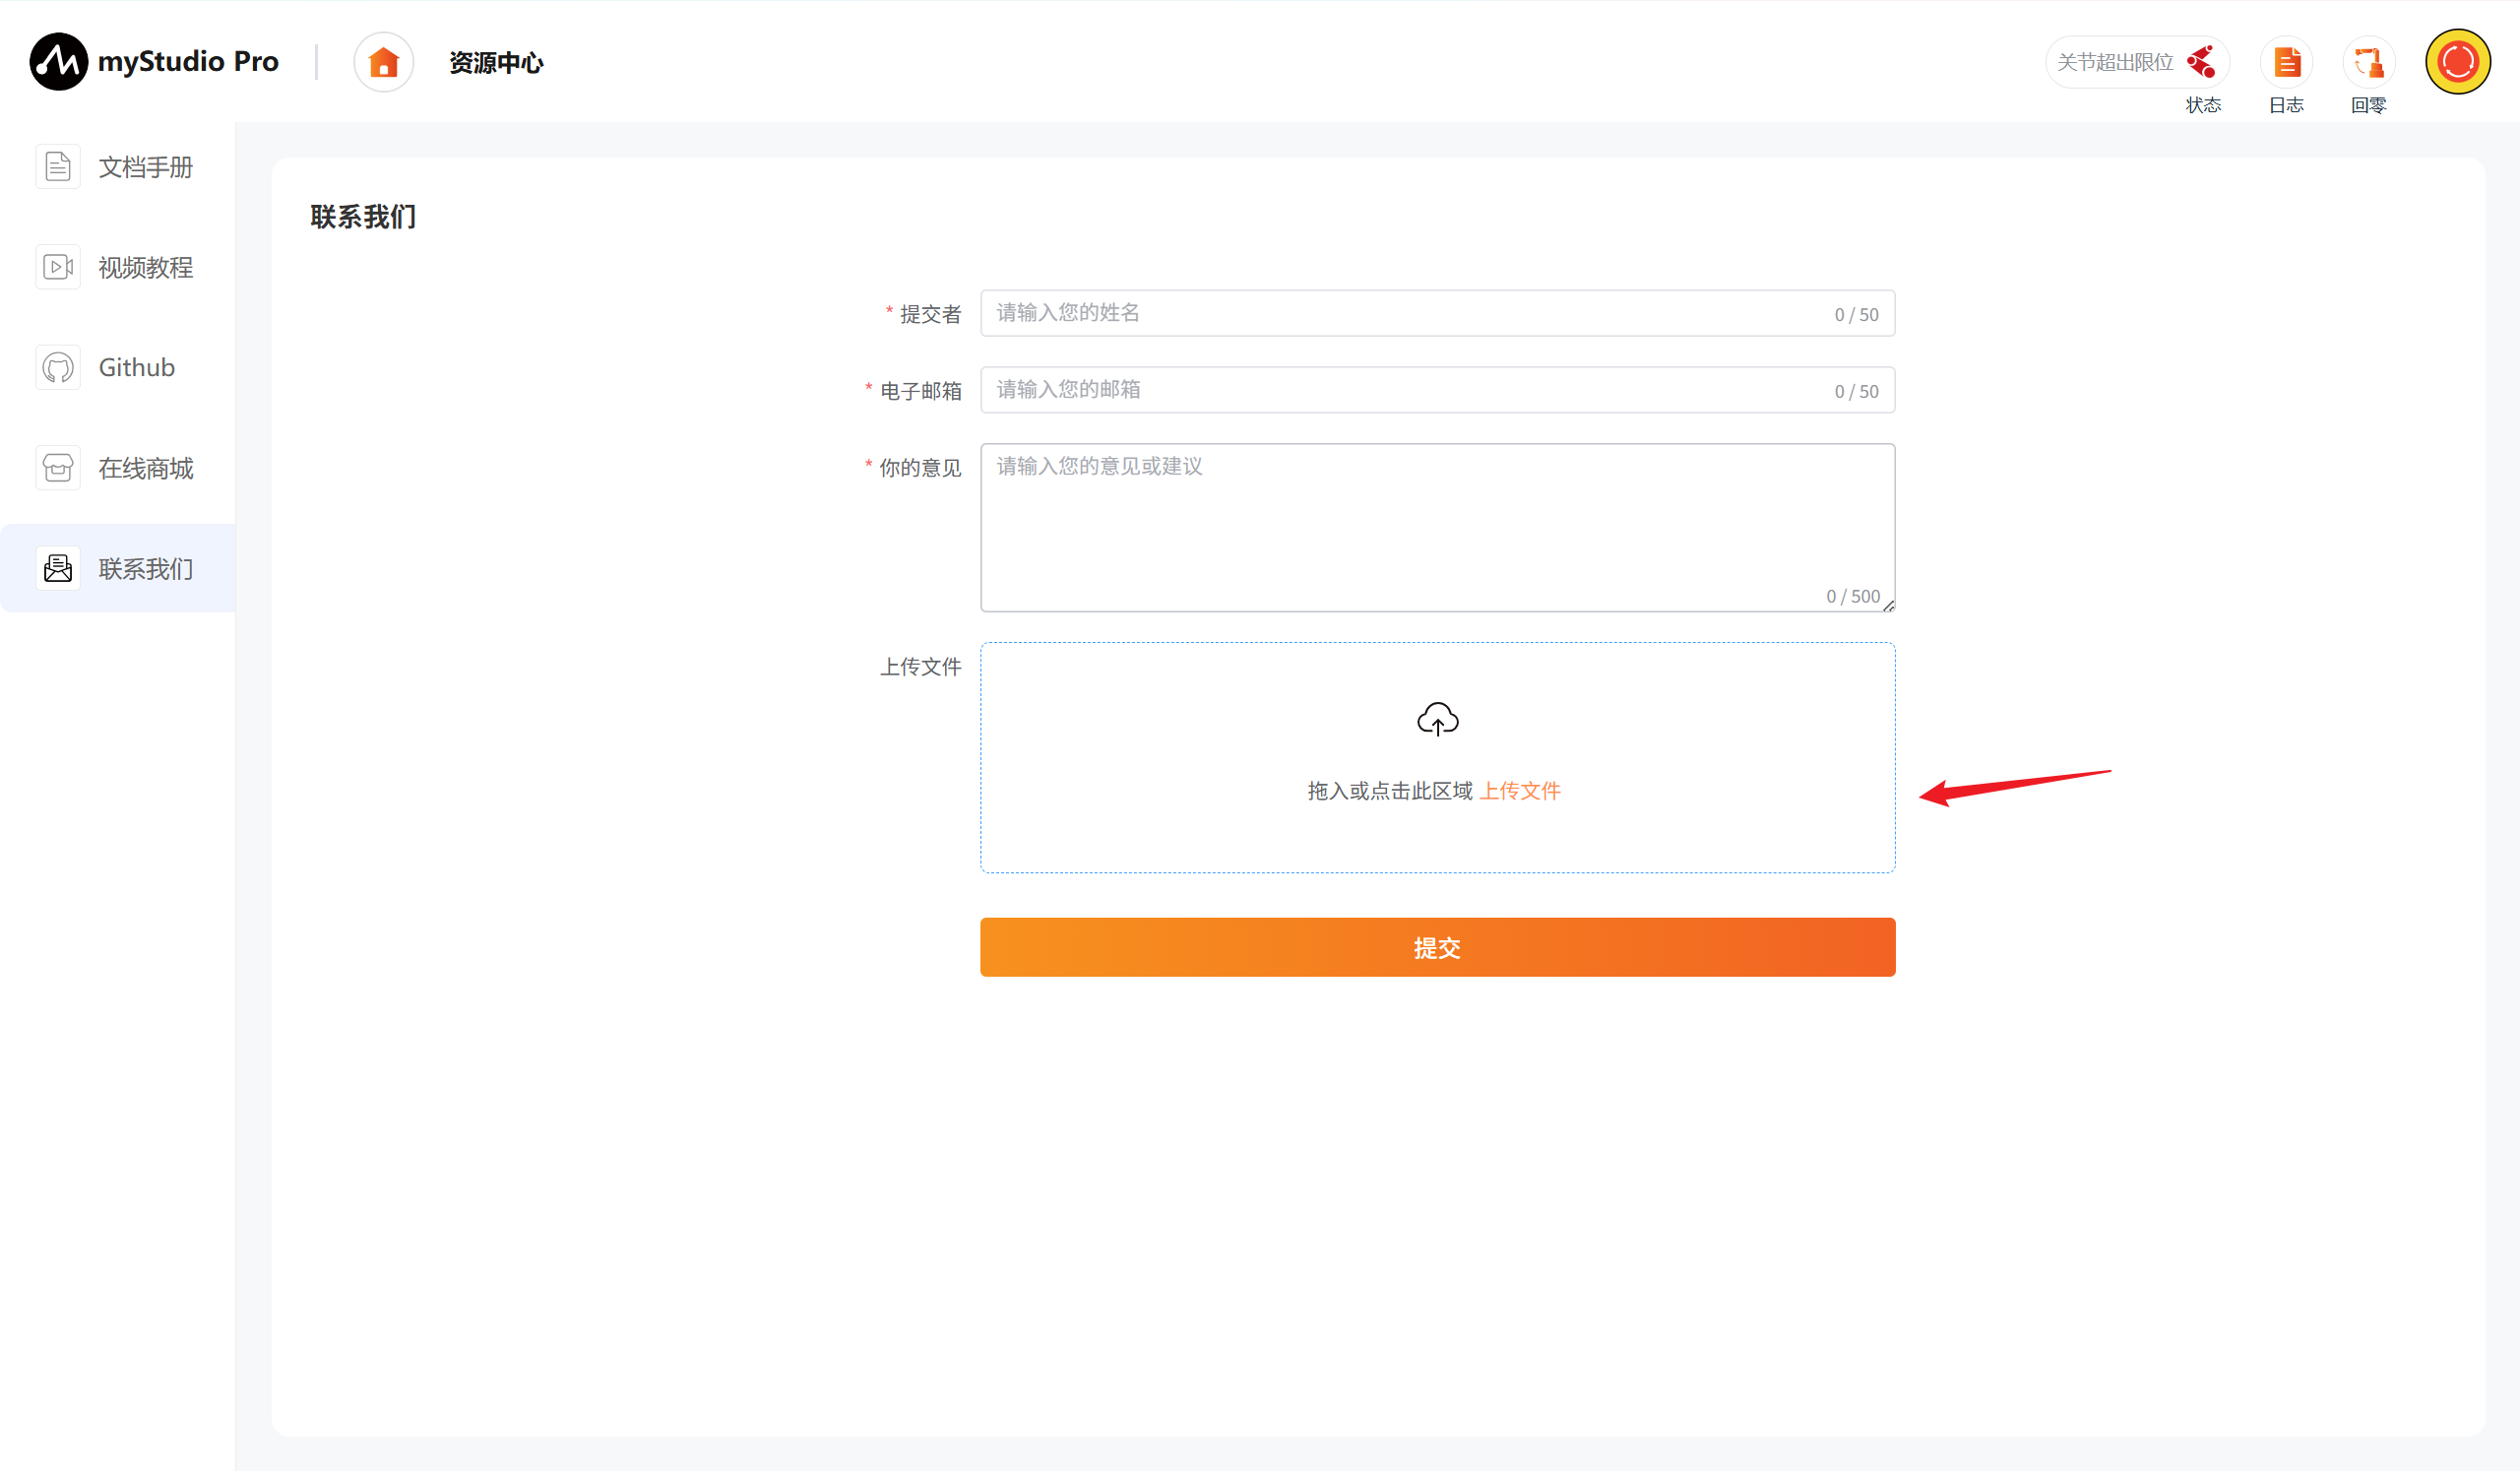
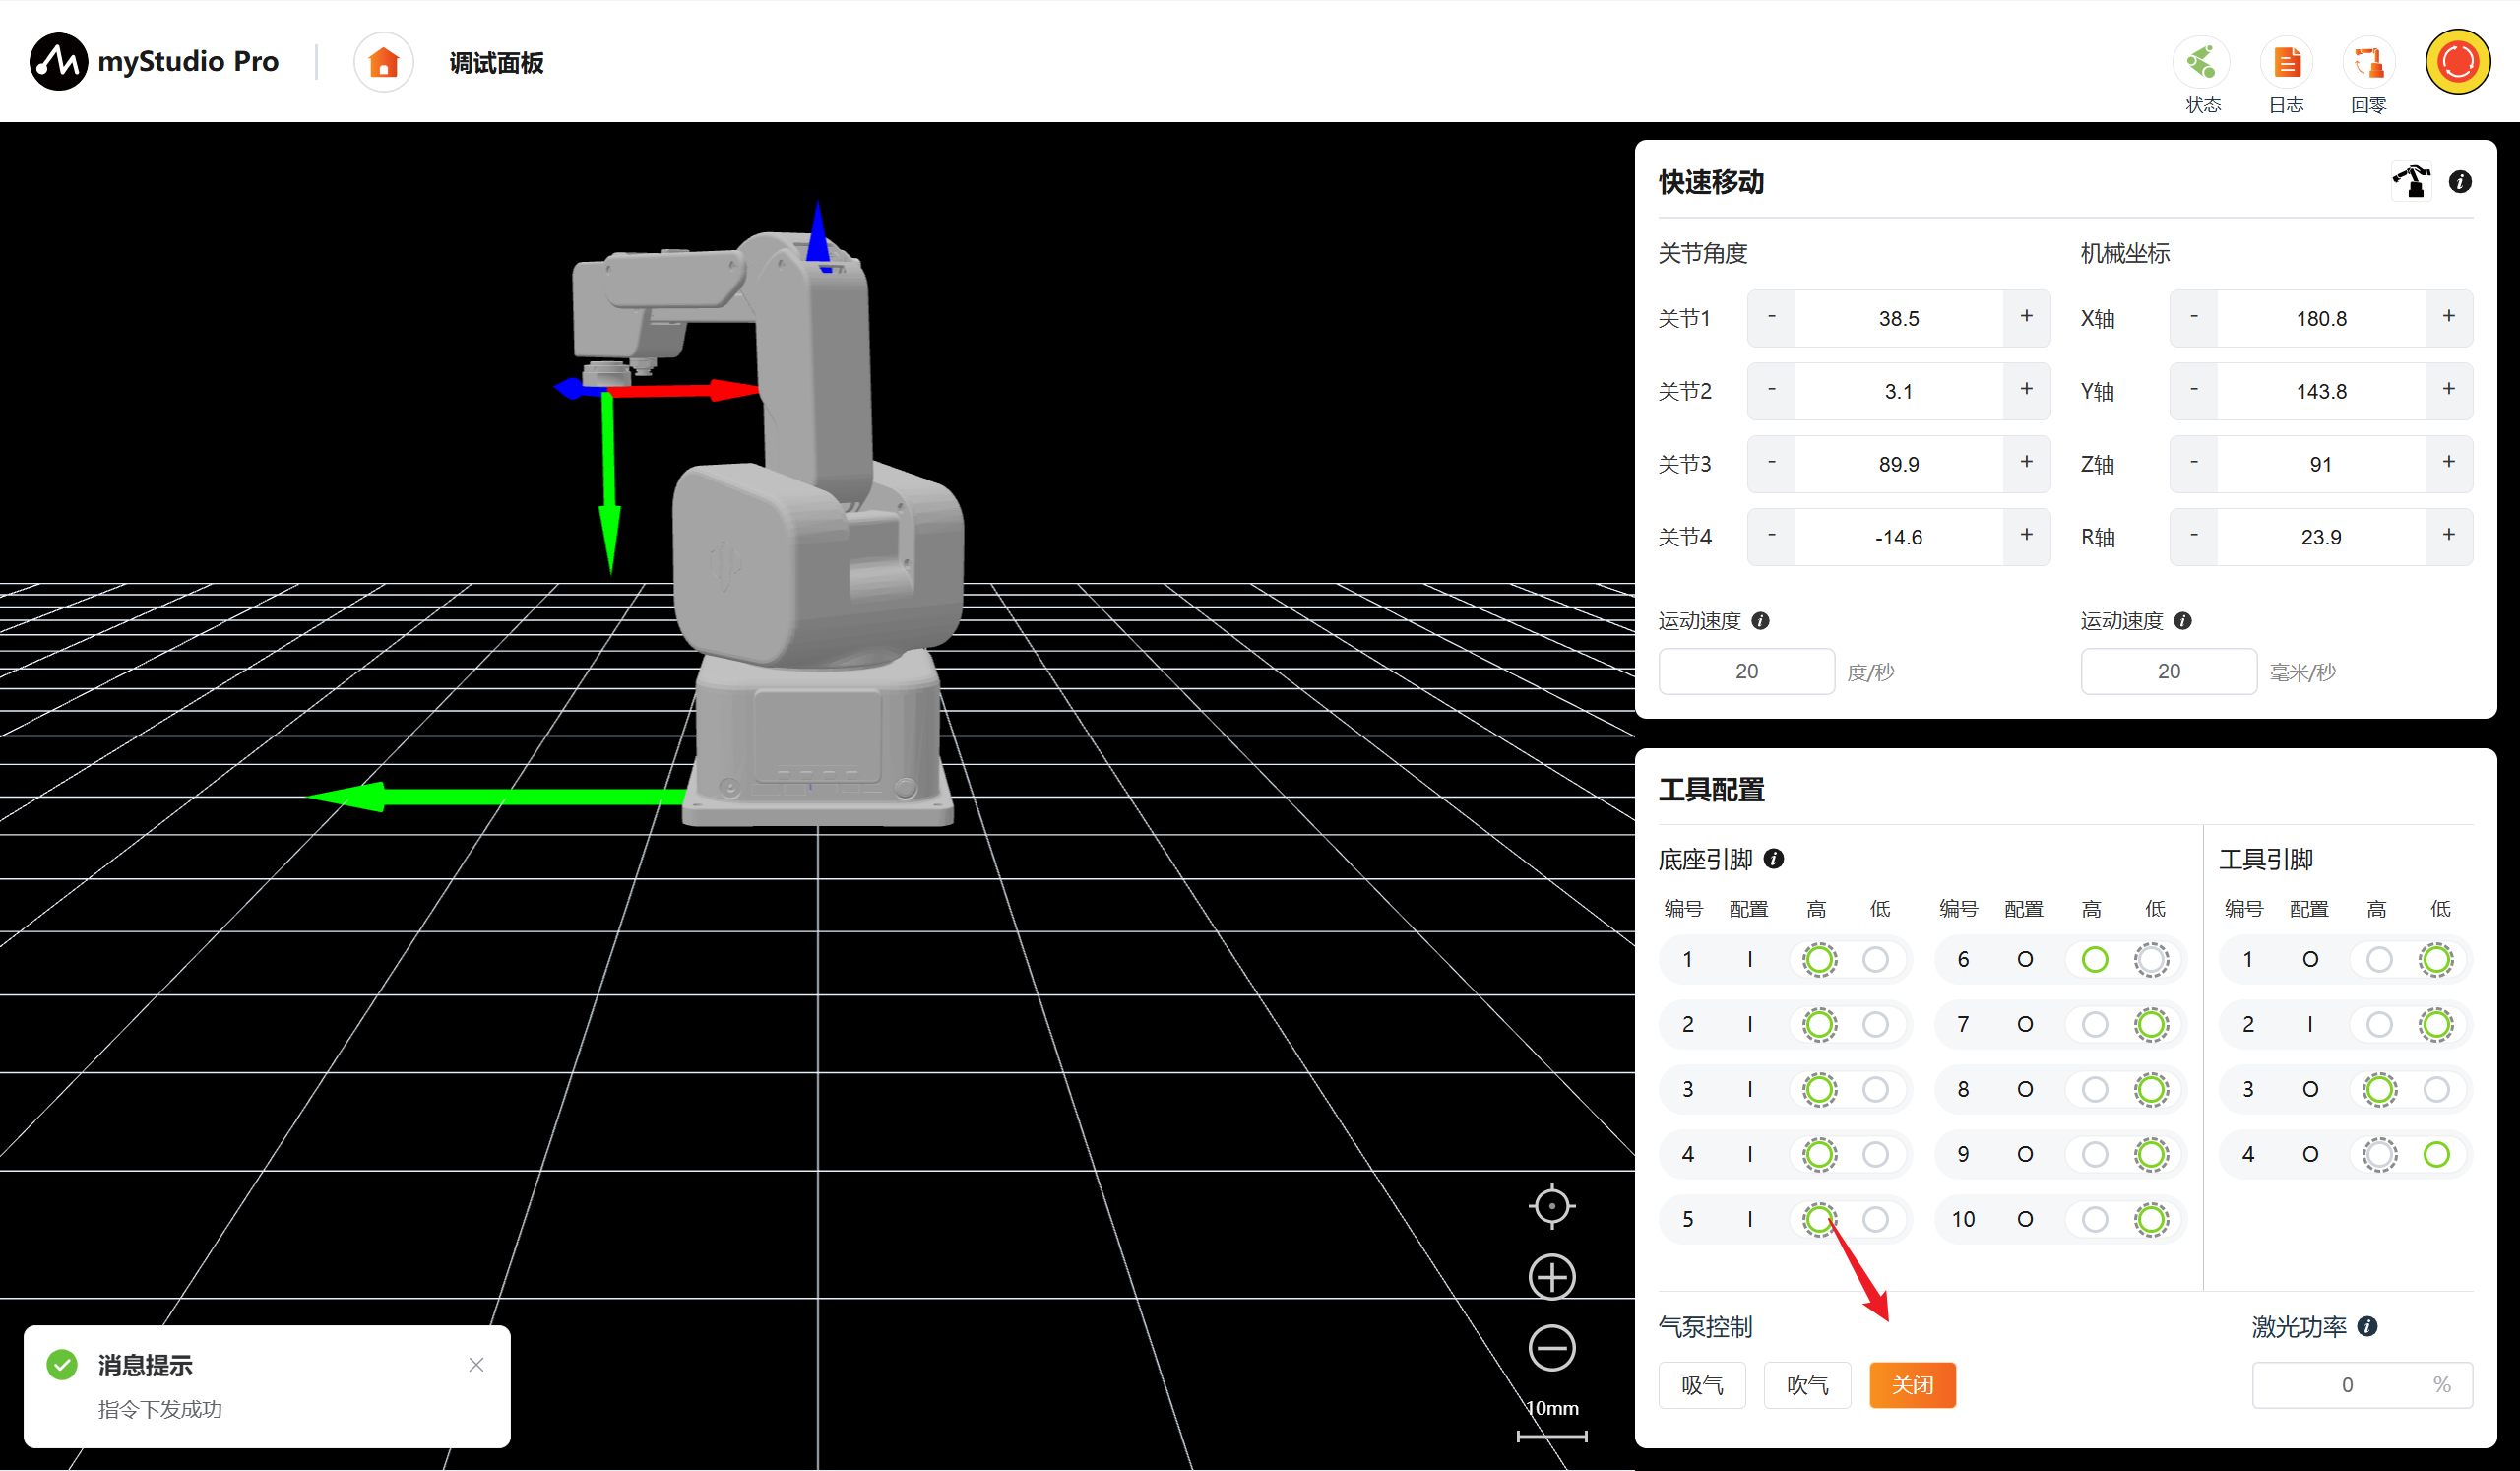
docs(mystudio): Completed the writing of the debugging panel content.

diff --git a/ultraArmP1_en/C-FunctionsAndApplications/5-BasicApplication/5.3-myStudioPro/5.3.4-debugPlane.md b/ultraArmP1_en/C-FunctionsAndApplications/5-BasicApplication/5.3-myStudioPro/5.3.4-debugPlane.md
@@ -23,19 +23,100 @@
 | 9    | Air pump control, can perform suction, blowing and closing operations of the air pump |
 | 10   | Laser power control, by inputting numbers in the text box to regulate the laser power | 
 
-## 2 Angle Control
-In the angle control area, by clicking the `+` `-` buttons, you can control the joint angles of the robotic arm. The numbers represent the current joint angle information of the robotic arm. You can also directly modify the numbers to control the joints. Input a position within the limit range, and then click `Enter` to perform the control. 
+## 2 Free Movement
 
-## 3 Coordinate Control
-Before using coordinate control, it is necessary to move Joint 3 to an angle position of approximately 90 degrees. 
+The free movement switch can enable/disable the free movement mode of the robotic arm.
 
-## 4 Continuous Movement 
-By long-pressing the `+` `-` buttons in the corresponding area, you can control the robot to move continuously at the specified angle/coordinates. 
+<img width = "1200" align = "center" src="../../../resources/C-FunctionsAndApplications/5-BasicApplication/5.3-myStudioPro/debug-13.png" />
 
-## 5 IO Control 
+When the automatic mode is activated, clicking the switch will display a confirmation pop-up window. After clicking the confirm button, the free movement mode can be enabled.
 
-## 6 Pump Suction Control 
+<img width = "1200" align = "center" src="../../../resources/C-FunctionsAndApplications/5-BasicApplication/5.3-myStudioPro/debug-14.png" />
 
-## 7 Laser Power Control
+<img width = "1200" align = "center" src="../../../resources/C-FunctionsAndApplications/5-BasicApplication/5.3-myStudioPro/debug-15.png" />
+
+## 3 Angle Control
+In the angle control area, by clicking the `+` `-` buttons, you can control the joint angles of the robotic arm. The numbers represent the current joint angle information of the robotic arm. You can also directly modify the numbers to control the joints. Input a position within the limit range, and then click `Enter` to perform the control.
+
+**Note:**
+> Input angle: Move to the target angle by following the set joint movement steps. 
+> 
+> When long-pressing "/" or "-": Move at this speed. >
+> 
+> When the "plus" or "minus" sign is present: Move at the minimum speed by 0.1 degree.
+
+<img width = "1200" align = "center" src="../../../resources/C-FunctionsAndApplications/5-BasicApplication/5.3-myStudioPro/debug-2.png" />
+
+## 4 Coordinate Control
+
+Before using the coordinate control, it is recommended to return the robotic arm to its zero position before proceeding with the operation.
+
+<img width = "1200" align = "center" src="../../../resources/C-FunctionsAndApplications/5-BasicApplication/5.3-myStudioPro/debug-3.png" />
+
+## 5 Continuous Movement 
+By long-pressing the '+' and '-' buttons in the corresponding area, you can control the robot to move continuously at the specified angle/coordinates. The movement will stop once you release the mouse.
+
+<img width = "1200" align = "center" src="../../../resources/C-FunctionsAndApplications/5-BasicApplication/5.3-myStudioPro/debug-4.png" />
+
+
+> Note: When the long press operation reaches the joint limit position, it will automatically stop.
+
+## 6 Movement Step
+
+The angle/coordinate can be continuously moved or the movement mode can be controlled by pressing 'Enter', and the movement step size can also be set.
+
+<img width = "1200" align = "center" src="../../../resources/C-FunctionsAndApplications/5-BasicApplication/5.3-myStudioPro/debug-16.png" />
+
+<img width = "1200" align = "center" src="../../../resources/C-FunctionsAndApplications/5-BasicApplication/5.3-myStudioPro/debug-17.png" />
+
+## 7 IO Control 
+
+In this function module, the pin number, configuration and level status can be observed intuitively. Among them, the highlighted item in the level status section represents the actual status of the current pin. The dotted outer border represents the default level status set in the [Pin Configuration](./5.3.7-setting.md#3-pin-configuration)
+
+> I: The current pin is an input pin and cannot switch the high/low level
+> 
+> O: The current pin is an output pin and can switch the high/low level
+> 
+> The dotted outer border: The current level is the default level configured in the IO configuration page
+
+### 7.1 Base pins
+
+<img width = "1200" align = "center" src="../../../resources/C-FunctionsAndApplications/5-BasicApplication/5.3-myStudioPro/debug-5.png" />
+
+> The level state of pin 6 of the base is changed from a low level to a high level.
+
+<img width = "1200" align = "center" src="../../../resources/C-FunctionsAndApplications/5-BasicApplication/5.3-myStudioPro/debug-6.png" />
+
+### 7.2 Tool pins
+
+<img width = "1200" align = "center" src="../../../resources/C-FunctionsAndApplications/5-BasicApplication/5.3-myStudioPro/debug-7.png" />
+
+> The level state of tool pin 3 has been changed from low level to high level.
+
+<img width = "1200" align = "center" src="../../../resources/C-FunctionsAndApplications/5-BasicApplication/5.3-myStudioPro/debug-8.png" />
+
+## 8 Pump Suction Control 
+
+The air pump control functions include Inhale, Exhale, and Close. Among them, the buttons are mutually exclusive and can be switched by clicking. 
+
+Inhale: Start the vacuum generator to create a negative pressure of 67 kPa at the end of the suction cup.
+
+<img width = "1200" align = "center" src="../../../resources/C-FunctionsAndApplications/5-BasicApplication/5.3-myStudioPro/debug-9.png" />
+
+Exhale: Switch the air path to make the end suction cup generate a vacuum pressure of 67 kPa.
+
+<img width = "1200" align = "center" src="../../../resources/C-FunctionsAndApplications/5-BasicApplication/5.3-myStudioPro/debug-10.png" />
+
+Close: Cut off the power supply of the air pump or close all air valves, and the gas path will return to the normal pressure state.
+
+<img width = "1200" align = "center" src="../../../resources/C-FunctionsAndApplications/5-BasicApplication/5.3-myStudioPro/debug-11.png" />
+
+## 9 Laser Power Control
+
+Input the numerical value in the text box to adjust the laser power. Press Enter or click on an empty area to submit the modification. 0% indicates the laser is turned off. 
+
+**Note: Do not look directly at the laser beam or point it at your eyes.**
+
+<img width = "1200" align = "center" src="../../../resources/C-FunctionsAndApplications/5-BasicApplication/5.3-myStudioPro/debug-12.png" />
 
 [← Previous Chapter](./5.3.3-blockly.md) | [Next Chapter →](./5.3.5-resourceCenter.md)

diff --git a/ultraArmP1_cn/C-FunctionsAndApplications/5-BasicApplication/5.3-myStudioPro/5.3.4-debugPlane.md b/ultraArmP1_cn/C-FunctionsAndApplications/5-BasicApplication/5.3-myStudioPro/5.3.4-debugPlane.md
@@ -31,9 +31,11 @@
 
 <img width = "1200" align = "center" src="../../../resources/C-FunctionsAndApplications/5-BasicApplication/5.3-myStudioPro/debug-13.png" />
 
-点击确认按钮，即可开启自由移动模式
+开启自动模式时，点击开关会弹出确认弹窗，点击确认按钮，即可开启自由移动模式。
 
 <img width = "1200" align = "center" src="../../../resources/C-FunctionsAndApplications/5-BasicApplication/5.3-myStudioPro/debug-14.png" />
+
+<img width = "1200" align = "center" src="../../../resources/C-FunctionsAndApplications/5-BasicApplication/5.3-myStudioPro/debug-15.png" />
 
 ## 3 角度控制
 在角度控制区域中，通过点击`+` `-`按钮，对机械臂进行关节角度控制，数值代表当前机械臂的关节角度信息，也可以直接修改数值进行关节控制，输入限位范围内的位置，然后点击`Enter`，即可进行控制。
@@ -62,14 +64,19 @@
 
 ## 5 持续移动
 
-以通过长按 对应区域的`+` `-` 按钮，可以控制机器人按照指定的角度/坐标进行持续移动。
+以通过长按 对应区域的`+` `-` 按钮，可以控制机器人按照指定的角度/坐标进行持续移动，鼠标松开后停止运动。
 
 <img width = "1200" align = "center" src="../../../resources/C-FunctionsAndApplications/5-BasicApplication/5.3-myStudioPro/debug-4.png" />
 
 > 注意： 当长按操作持续运动到关节限位处时会自动停止。
 
-## 6 运动不长
+## 6 运动步长
 
+可对角度/坐标持续运动或`Enter`控制运动方式设置运动步长。
+
+<img width = "1200" align = "center" src="../../../resources/C-FunctionsAndApplications/5-BasicApplication/5.3-myStudioPro/debug-16.png" />
+
+<img width = "1200" align = "center" src="../../../resources/C-FunctionsAndApplications/5-BasicApplication/5.3-myStudioPro/debug-17.png" />
 
 
 ## 7 工具配置